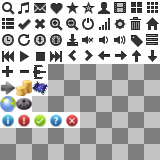
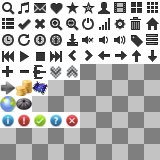
Working on tree and as always, have a nice day

Changed region(s): [[0.2812, 0.375, 0.5, 0.5]]

diff --git a/src/space_2/Node.cpp b/src/space_2/Node.cpp
@@ -21,12 +21,11 @@ Node::Node( NodeData* p_data, Tree* p_tree )
 	this->mTree = NULL;
 	this->mNodeData = NULL;
 	this->mNodeTextBox = NULL;
-	this->mIconSprite = NULL;
 	this->mIcon = NULL;
+	this->mIconExpand = NULL;
 
 	this->mNodeTextBox = this->getNodeTextBox();
 	this->mNodeTextBox->setAutoResize(false);
-	this->mIconSprite = SpriteParameterFactory::getSpriteParameterIcon16X16();
 
 	this->setTree(p_tree);
 	this->setNodeData(p_data);
@@ -40,6 +39,9 @@ Node::~Node(void)
 
 	if(this->mIcon != NULL)
 		delete this->mIcon;
+
+	if(this->mIconExpand != NULL)
+		delete this->mIconExpand;
 }
 
 
@@ -97,14 +99,19 @@ void Node::updatePosition()
 	{
 		this->mNodeTextBox->setPosition(this->getX() + PADDING, this->getY() + PADDING);
 	}
+
+	if(this->mIconExpand != NULL)
+		this->mIconExpand->setPosition(this->getRightX() - this->mIconExpand->getGlobalBounds().width - PADDING, this->getY() + PADDING);
 }
 
 void Node::updateTextBox()
 {
-	if(this->mIcon != NULL)
-		this->mNodeTextBox->setWidth(this->getWidth() - (this->mIcon->getGlobalBounds().width + TB_MARGINLEFT));
+	if(this->mIcon != NULL && this->mIconExpand != NULL)
+		this->mNodeTextBox->setWidth(this->getWidth() - this->mIconExpand->getGlobalBounds().width - (this->mIcon->getGlobalBounds().width + TB_MARGINLEFT - PADDING * 2));
+	else if(this->mIconExpand != NULL)
+		this->mNodeTextBox->setWidth(this->getWidth() - this->mIconExpand->getGlobalBounds().width - PADDING * 2);
 	else
-		this->mNodeTextBox->setWidth(this->getWidth());
+		this->mNodeTextBox->setWidth(this->getWidth() - PADDING * 2);
 
 	if(this->mNodeData != NULL)
 		this->mNodeTextBox->setText(this->mNodeData->getText());
@@ -112,6 +119,7 @@ void Node::updateTextBox()
 
 void Node::updateIcon()
 {
+	// Icon
 	if(this->mIcon != NULL)
 	{
 		delete this->mIcon;
@@ -119,8 +127,24 @@ void Node::updateIcon()
 	}
 	
 	if(this->mNodeData != NULL && this->mNodeData->getIcon() != "")
-		this->mIcon = this->mIconSprite->getSpritePtr(this->mNodeData->getIcon(), this->getHeight() - PADDING * 2, this->getHeight() - PADDING * 2);;
+		this->mIcon = SpriteParameterFactory::getSpriteParameterIcon16X16()->getSpritePtr(this->mNodeData->getIcon(), this->getHeight() - PADDING * 2, this->getHeight() - PADDING * 2);
 
+	// Icon Expand
+	if(this->mIconExpand != NULL)
+	{
+		delete this->mIconExpand;
+		this->mIconExpand= NULL;
+	}
+
+	if(this->mNodeData != NULL && this->mNodeData->canExpand())
+	{
+		if(this->mNodeData->isExpand())
+			this->mIconExpand = SpriteParameterFactory::getSpriteParameterIcon16X16()->getSpritePtr(IC_16X16_COLLAPSE, this->getHeight() - PADDING * 2, this->getHeight() - PADDING * 2);
+		else
+			this->mIconExpand = SpriteParameterFactory::getSpriteParameterIcon16X16()->getSpritePtr(IC_16X16_EXPAND, this->getHeight() - PADDING * 2, this->getHeight() - PADDING * 2);
+	}
+
+	// TextBox & Position
 	this->updateTextBox();
 	this->updatePosition();
 }
@@ -132,8 +156,11 @@ void Node::update( sf::Event p_event )
 	{
 		if(this->isClicked())
 		{
-			this->mNodeData->setExpand(!this->mNodeData->isExpand());
-			this->notifyExpandChanged();
+			if(this->mNodeData != NULL && this->mNodeData->canExpand())
+			{
+				this->mNodeData->setExpand(!this->mNodeData->isExpand());
+				this->notifyExpandChanged();
+			}
 		}
 	}
 }
@@ -145,6 +172,8 @@ void Node::draw()
 	{
 		if(this->mIcon != NULL)
 			Resource::resource->getApp()->draw(*this->mIcon);
+		if(this->mIconExpand != NULL)
+			Resource::resource->getApp()->draw(*this->mIconExpand);
 		this->mNodeTextBox->draw();
 	}
 }
@@ -177,7 +206,7 @@ void Node::notifyTreeChanged()
 {
 	if(this->mTree != NULL)
 	{
-		this->setSize(this->mTree->getContentWidth() + PADDING * 2, this->mNodeTextBox->getHeight() + PADDING * 2);
+		this->setSize(this->mTree->getContentWidth(), this->mNodeTextBox->getHeight() + PADDING * 2);
 	}
 }
 

diff --git a/src/space_2/SpriteParameterDefine.h b/src/space_2/SpriteParameterDefine.h
@@ -50,6 +50,8 @@
 #define IC_16X16_ADD				"0-4"
 #define IC_16X16_SUB				"1-4"
 #define IC_16X16_SHIP				"2-4"
+#define IC_16X16_EXPAND				"3-4"
+#define IC_16X16_COLLAPSE			"4-4"
 #define IC_16X16_ARROW				"0-5"
 #define IC_16X16_CREDIT				"1-5"
 #define IC_16X16_MAP				"2-5"

diff --git a/src/space_2/NodeData.cpp b/src/space_2/NodeData.cpp
@@ -126,6 +126,11 @@ bool NodeData::isLeaf()
 	return !this->hasChilds();
 }
 
+bool NodeData::canExpand()
+{
+	return this->getChildCount() > 0;
+}
+
 bool NodeData::isExpand()
 {
 	return this->mExpand;

diff --git a/src/space_2/Node.h b/src/space_2/Node.h
@@ -41,7 +41,7 @@ private:
 
 	NodeData* mNodeData;
 	TextBox* mNodeTextBox;
-	SpriteParameter* mIconSprite;
 	sf::Sprite* mIcon;
+	sf::Sprite* mIconExpand;
 };
 

diff --git a/src/space_2/NodeData.h b/src/space_2/NodeData.h
@@ -32,6 +32,7 @@ public:
 	bool isRoot();
 	bool isLeaf();
 
+	bool canExpand();
 	bool isExpand();
 	void setExpand(bool p_expand);
 
